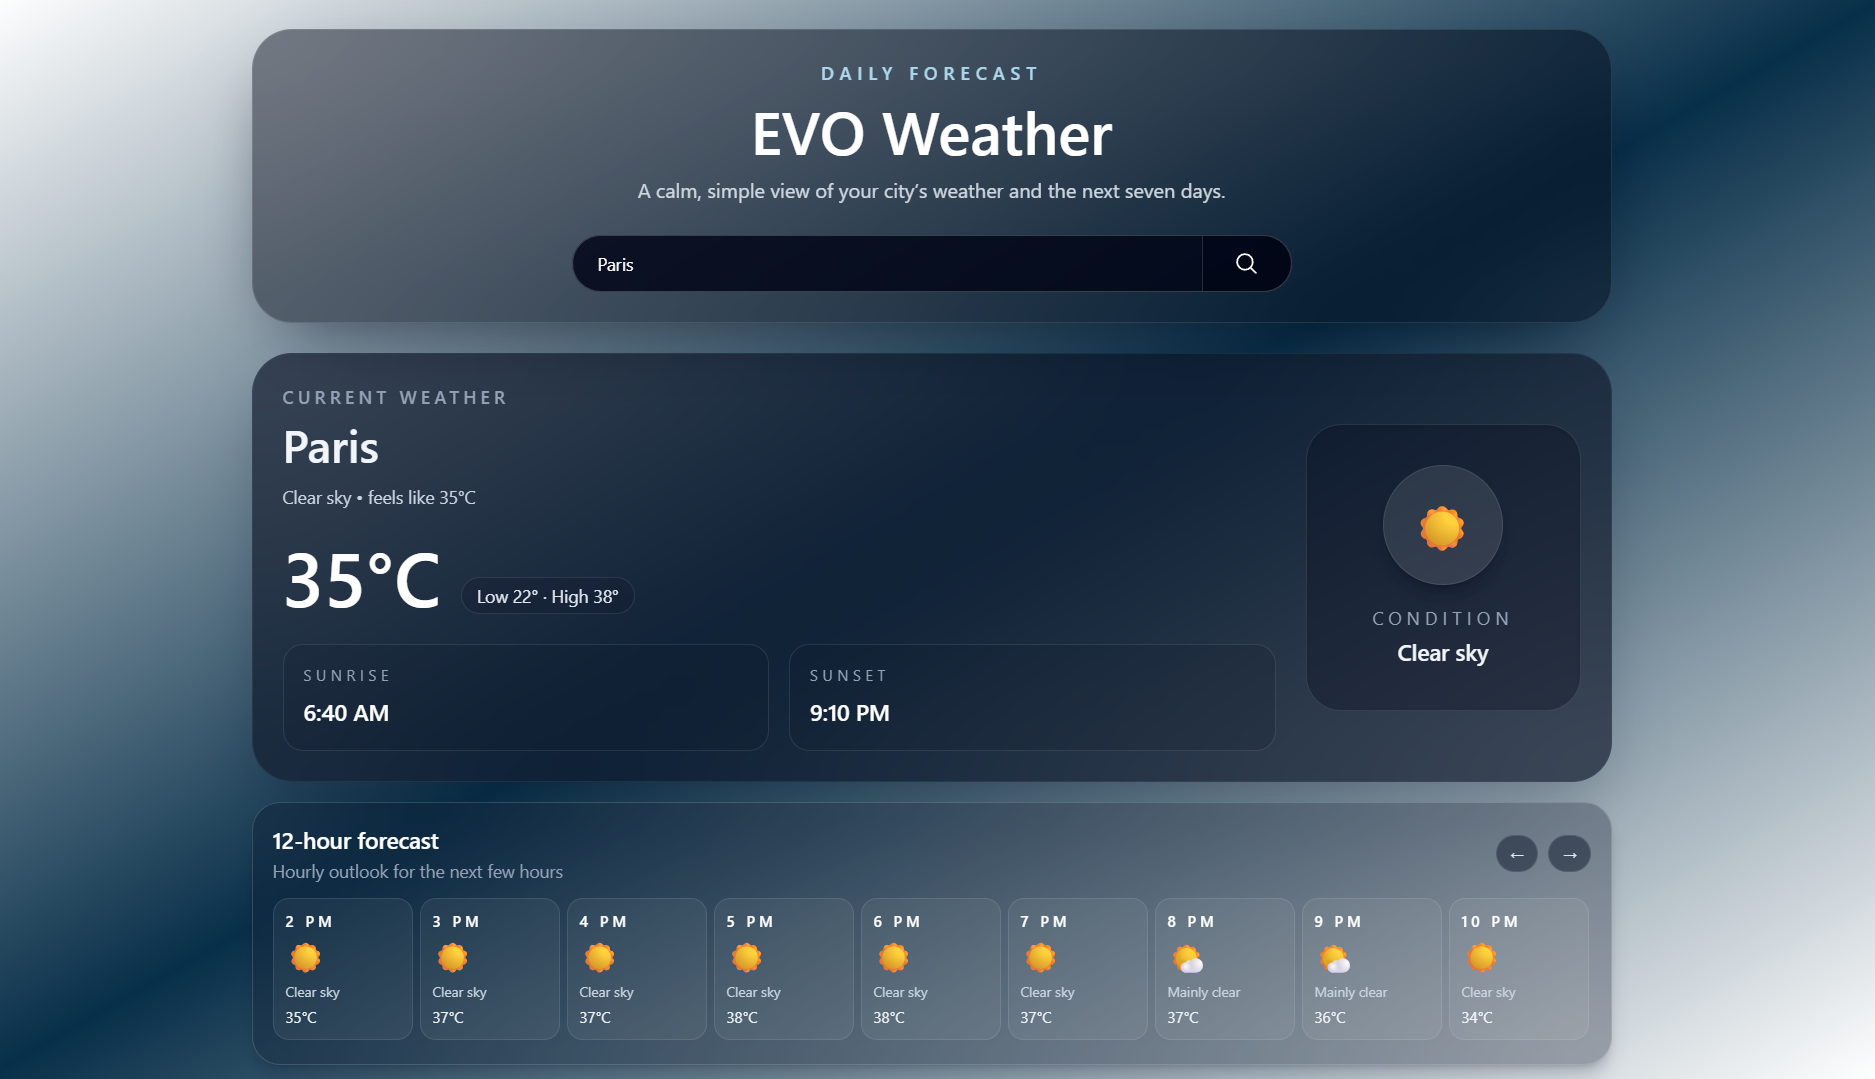
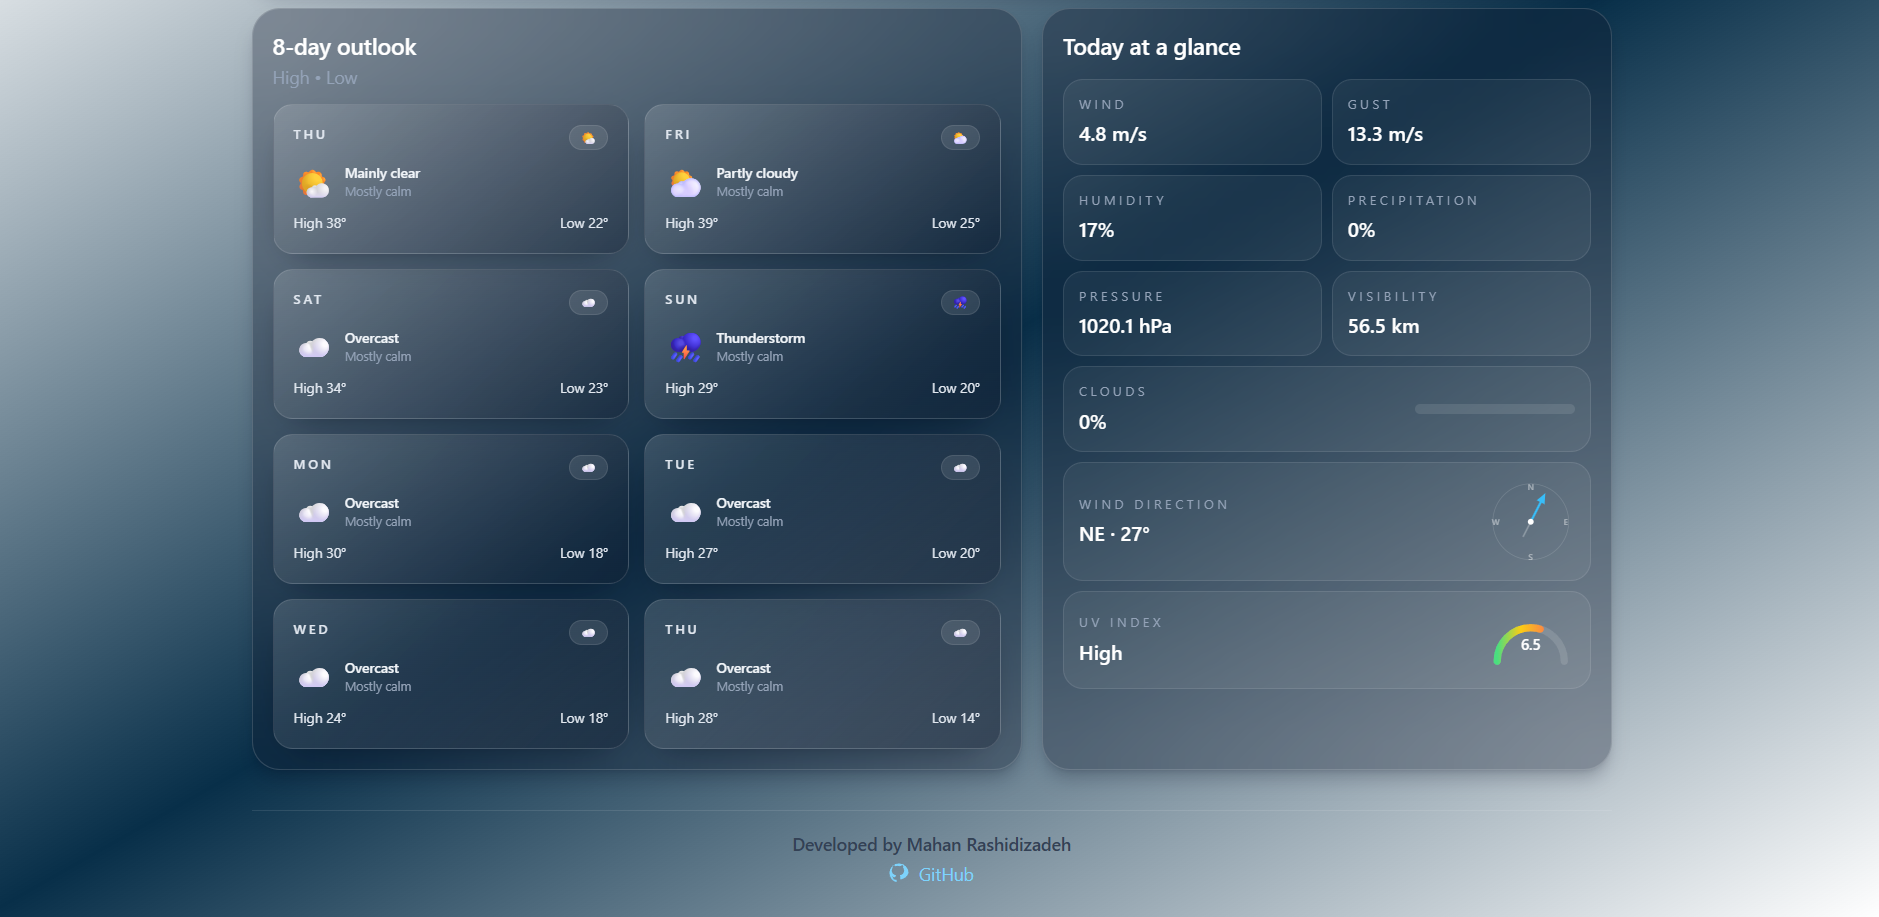
Updated README

diff --git a/README.md b/README.md
@@ -46,8 +46,8 @@ The project provides real-time weather information by consuming external APIs an
 
 ### Home
 
-![Home](screenshots/Home1.png)
-![Weather](screenshots/Home2.png)
+![Home](screenshots/Home.png)
+![Weather](screenshots/Home1.png)
 
 ---
 
